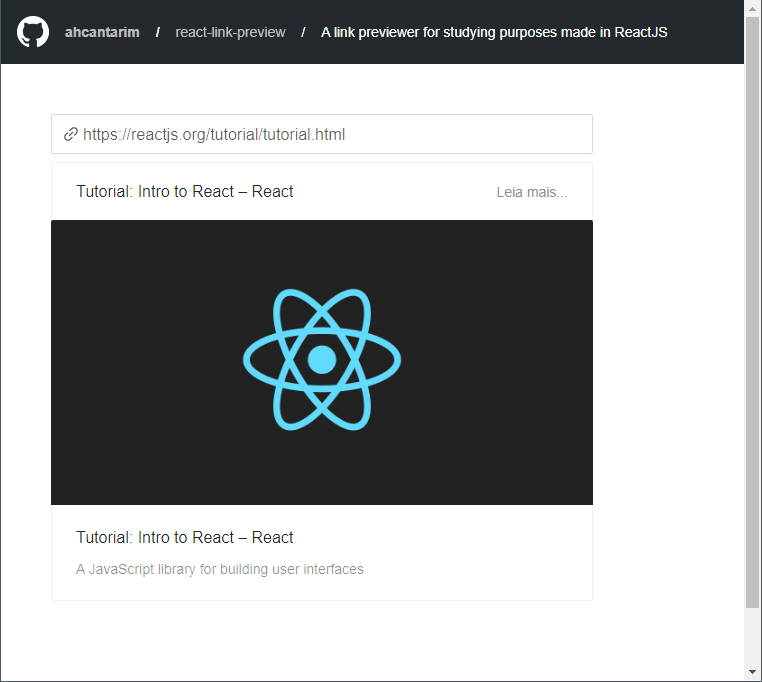
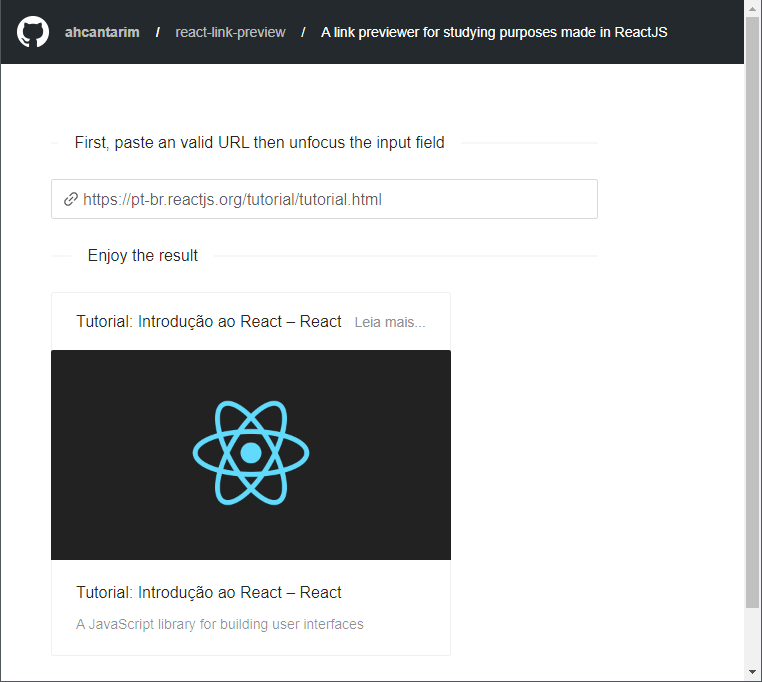
Inclusão do Divider para separar seções

Changed region(s): [[0.0604, 0.2463, 0.7848, 0.9238], [0.0906, 0.1848, 0.5735, 0.2463]]

diff --git a/src/pages/Home/index.js b/src/pages/Home/index.js
@@ -2,7 +2,7 @@ import React, { useState } from 'react';
 import axios from 'axios';
 import cheerio from 'cheerio';
 
-import { Input, Card, Space } from 'antd';
+import { Input, Card, Space, Divider } from 'antd';
 import { LinkOutlined } from '@ant-design/icons';
 
 import { Body } from './styles';
@@ -108,6 +108,7 @@ export default function Home() {
                 direction="vertical"
                 style={{ width: "100%" }}
             >
+                <Divider orientation="left">First, paste an valid URL then unfocus the input field</Divider>
                 <Input
                     size="large"
                     onBlur={onBlur}
@@ -116,22 +117,25 @@ export default function Home() {
                 />
 
                 {previewData && (
-                    <Card
-                        title={previewData.site || previewData.title}
-                        extra={<a href={previewData.link} target="_blank" rel="noopener noreferrer">Leia mais...</a>}
-                        style={{ width: "100%" }}
-                        cover={
-                            <img
-                                alt={previewData.title}
-                                src={previewData.image}
+                    <>
+                        <Divider orientation="left">Enjoy the result</Divider>
+                        <Card
+                            title={previewData.site || previewData.title}
+                            extra={<a href={previewData.link} target="_blank" rel="noopener noreferrer">Leia mais...</a>}
+                            style={{ width: 400 }}
+                            cover={
+                                <img
+                                    alt={previewData.title}
+                                    src={previewData.image}
+                                />
+                            }
+                        >
+                            <Meta
+                                title={previewData.title}
+                                description={previewData.description}
                             />
-                        }
-                    >
-                        <Meta
-                            title={previewData.title}
-                            description={previewData.description}
-                        />
-                    </Card>
+                        </Card>
+                    </>
                 )}
             </Space>
         </Body>
